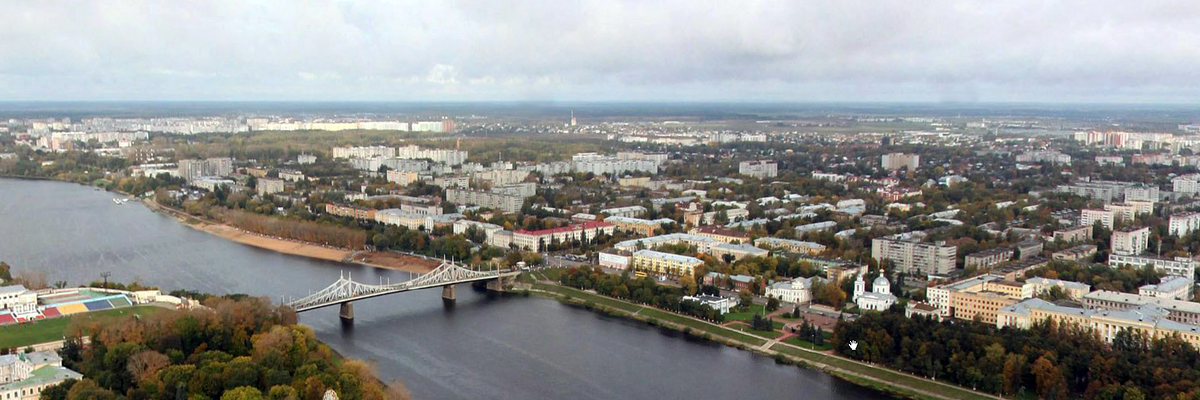
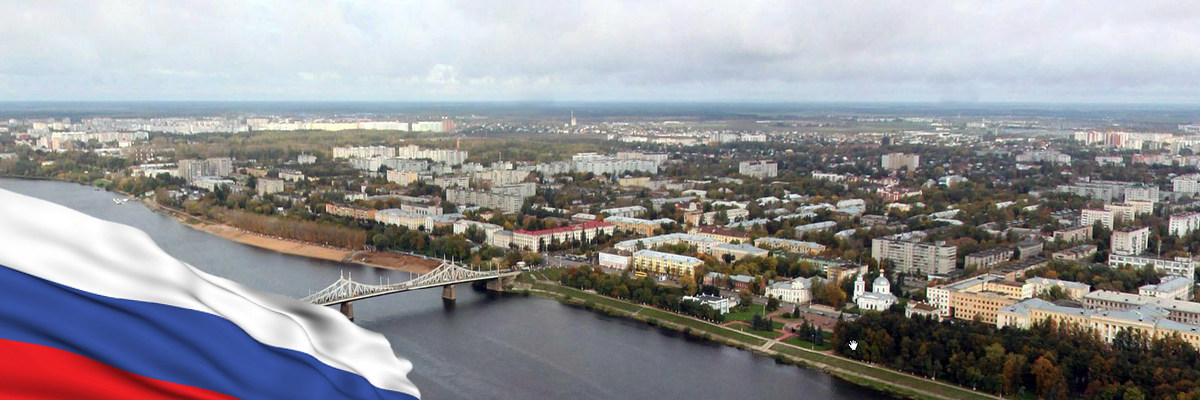
Добавил логоти и изменил баннер

Changed region(s): [[0.0, 0.48, 0.37, 1.0]]

diff --git a/css/app.css b/css/app.css
@@ -109,7 +109,7 @@ p {
   margin-left: auto;
   margin-right: auto;
 }
-/* line 12, ../../../../../../Ruby193/lib/ruby/gems/1.9.1/gems/susy-2.2.2/sass/susy/output/support/_clearfix.scss */
+/* line 12, C:/Ruby193/lib/ruby/gems/1.9.1/gems/susy-2.2.2/sass/susy/output/support/_clearfix.scss */
 #wrapper_fullscreen:after {
   content: " ";
   display: block;
@@ -164,7 +164,6 @@ p {
 
 /* line 19, ../sass/custom-styles/_header.scss */
 .logo-header img {
-  width: 250px;
   margin-right: 0;
 }
 

diff --git a/index.html b/index.html
@@ -20,7 +20,7 @@
 				 <div class="layouts-header-top">
 					<!-- Лого -->
 					<div class="logo-header">
-						<img src="img/logo_conches.png" alt="" />
+						<img src="img/logo.png" alt="" />
 					</div>
 					
 					<!-- Инфо -->

diff --git a/sass/custom-styles/_header.scss b/sass/custom-styles/_header.scss
@@ -17,7 +17,7 @@
 }
 
 .logo-header img{
-	width: 250px;
+	//width: 250px;
 	margin-right: 0;
 }
 
